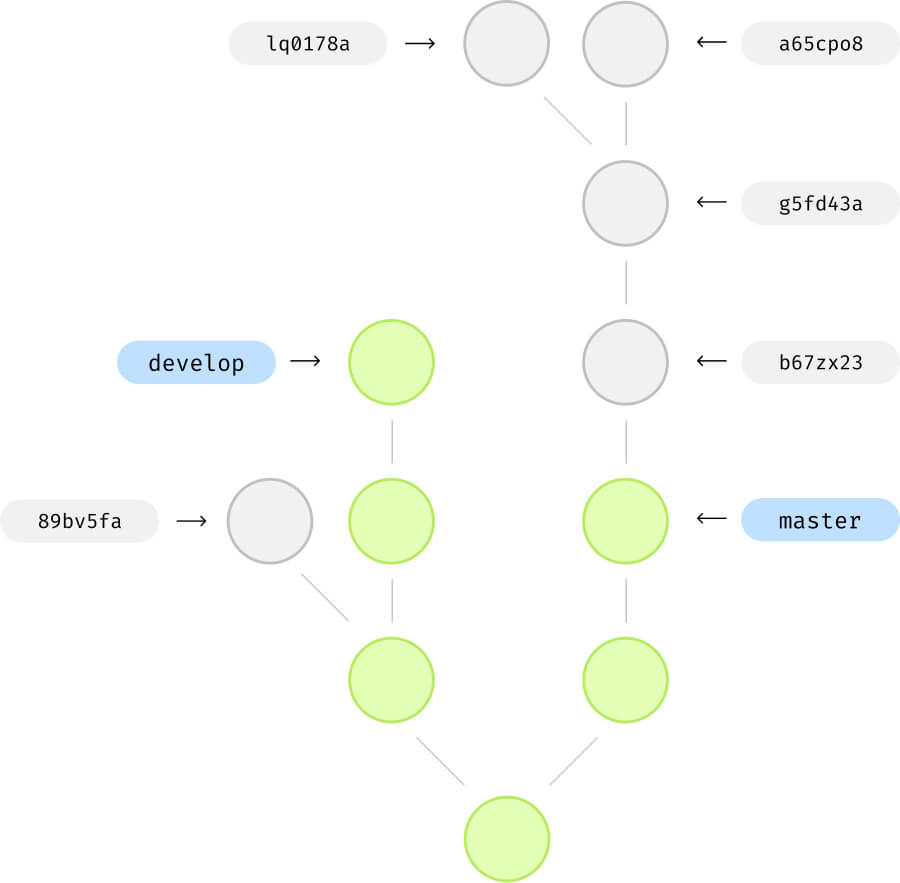
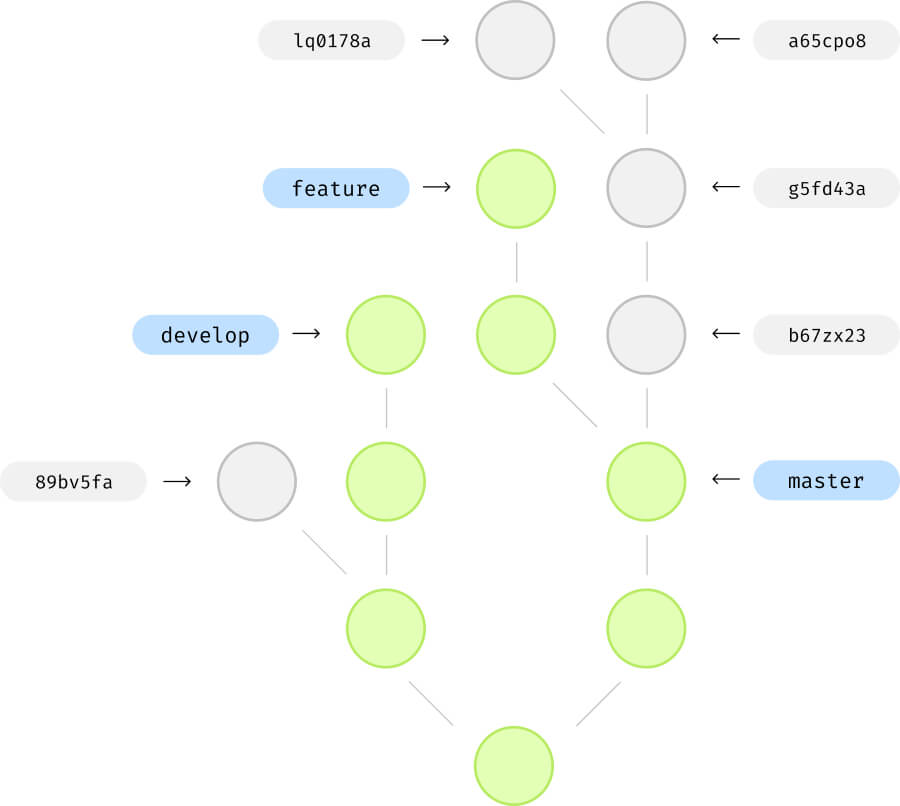
Update branches section

diff --git a/index.html b/index.html
@@ -1555,21 +1555,29 @@ Third commit</code></pre>
               />
               <p class="text">
                 When a branch references a commit, all of its ancestor commits
-                (parent commits) become reachable, starting from the first
-                commits to which the branches
-                <span class="code">master</span> and
-                <span class="code">develop</span> points.
+                (parent commits) <b>become reachable</b>, starting from the
+                first commits to which the branches on the diagram points.
               </p>
               <p class="text">
                 All of the grey commits are <b>unreachable</b>, because none of
-                the branches points to them. They will remain in the
+                the branches points to them.
+              </p>
+              <p class="text">
+                <b>Important note:</b> They unreachable commits remain in the
                 <span class="code">.git/objects/</span> directory in the
                 repository <b>for the 90 days</b>.
               </p>
               <p class="text">
+                Even if you delete the branch and the commits are no longer
+                visible in the
+                <span class="code">git log</span>, they are not deleted and will
+                be kept in the local repository for some time.
+              </p>
+              <p class="text">
                 If you know the <b>SHA-1</b> of the unreachable commits (for
-                instance from reflog) you can still checkout to them, create a
-                branch on that commit, so they will be <b>reachable again</b>.
+                instance from <span class="code">git reflog</span>) you can
+                still checkout to them, create a branch on that commit, and they
+                will become <b>reachable again</b>.
               </p>
             </div>
             <div class="group">
@@ -1585,9 +1593,9 @@ Third commit</code></pre>
                 HEAD mode. None of the branches points to this commit, so it's a
                 <b>dangling commit</b>.
               </p>
-              <pre><code class="code-block language-plain">test-repo git:(master) git checkout aa656d4
+              <pre><code class="code-block language-plain">test-repo git:(master) git checkout 89bv5fa
 
-Note: switching to 'aa656d4'.
+Note: switching to '89bv5fa'.
 
 You are in 'detached HEAD' state. You can look around, make experimental
 changes and commit them, and you can discard any commits you make in this
@@ -1604,8 +1612,8 @@ Or undo this operation with:
 
 Turn off this advice by setting config variable advice.detachedHead to false
 
-HEAD is now at aa656d4 Second commit
-test-repo git:(aa656d4)</code></pre>
+HEAD is now at 89bv5fa Unreachable commit
+test-repo git:(89bv5fa)</code></pre>
               <p class="text">
                 Any new commits created in this state <b>will be lost</b> after
                 switching back to a branch, beacuse they won't be referenced by
